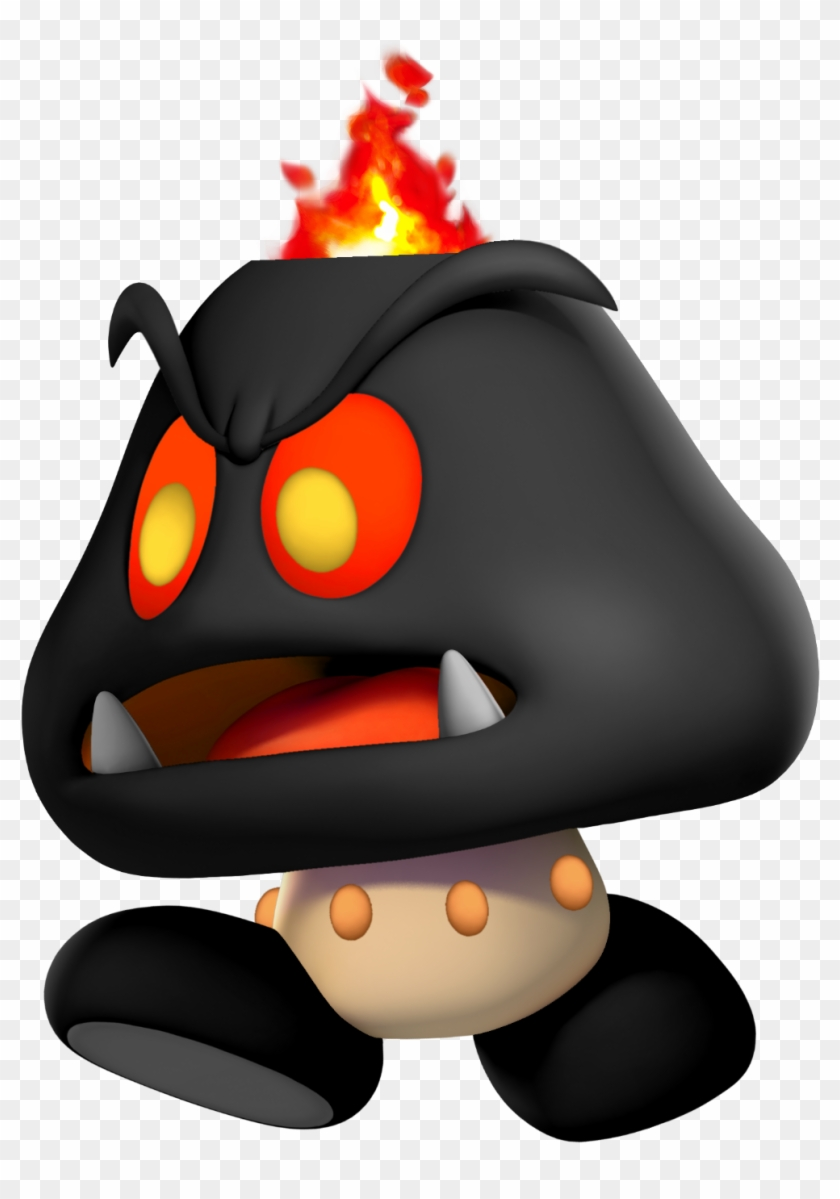
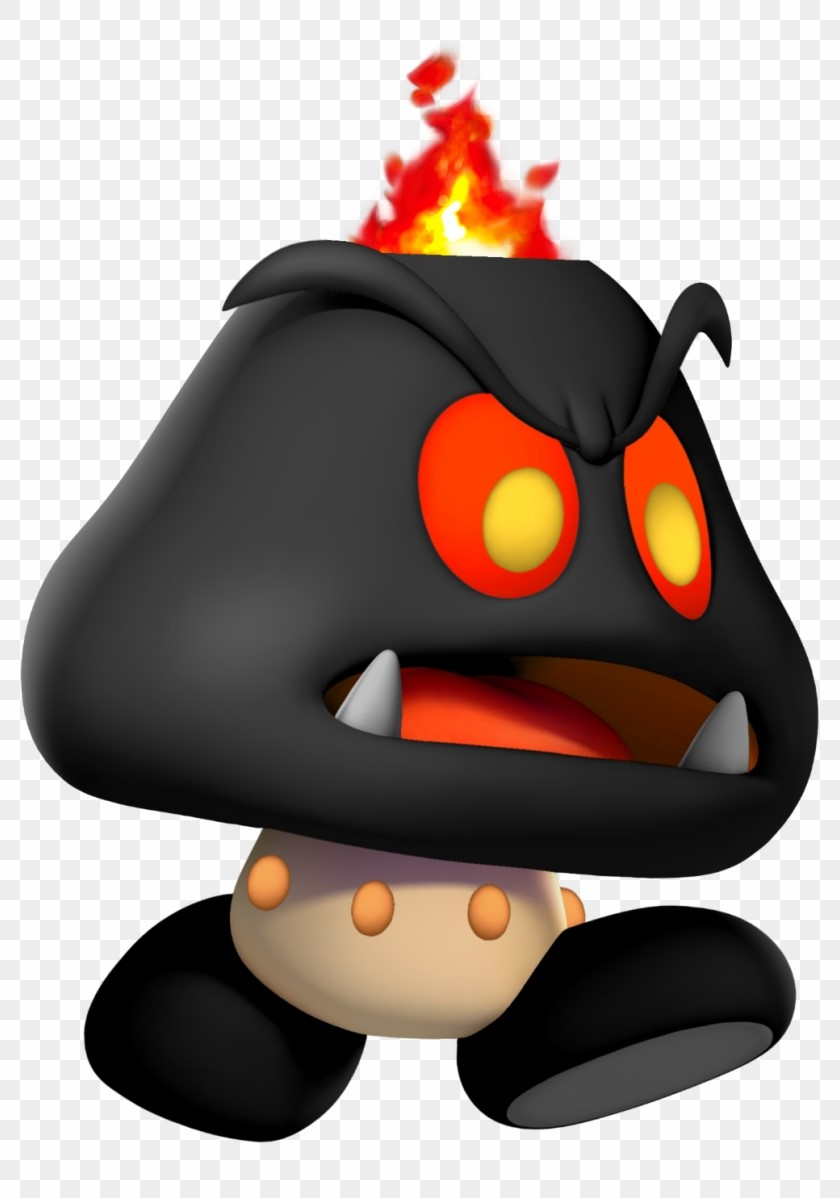
Texture Update

diff --git a/Next Level/core/src/com/mygdx/nextlevel/actors/Player2.java b/Next Level/core/src/com/mygdx/nextlevel/actors/Player2.java
@@ -102,6 +102,10 @@ public class Player2 extends Actor2 {
             else
                 setRegion(new Texture("goomba.png"));
 
+            if (!facingRight) {
+                flip(true, false);
+            }
+
             drawTexture = false;
         }
 
@@ -141,7 +145,6 @@ public class Player2 extends Actor2 {
 
         if (fireFlowerItem) {
             fireFlowerTime += delta;
-            //TODO Add FireFlower Functionality
             if (fireFlowerTime > 3f) {
                 drawTexture = true;
                 fireFlowerItem = false;

diff --git a/Next Level/core/src/com/mygdx/nextlevel/actors/Fire2.java b/Next Level/core/src/com/mygdx/nextlevel/actors/Fire2.java
@@ -20,8 +20,10 @@ public class Fire2 extends Actor2 {
         if (inital) {
             if (screen.getPlayer().facingRight)
                 collider.setVelocity(new Vector2(5.0f, collider.getVelocity().y));
-            else
+            else {
                 collider.setVelocity(new Vector2(-5.0f, collider.getVelocity().y));
+                flip(true, false);
+            }
             inital = false;
         }
 
